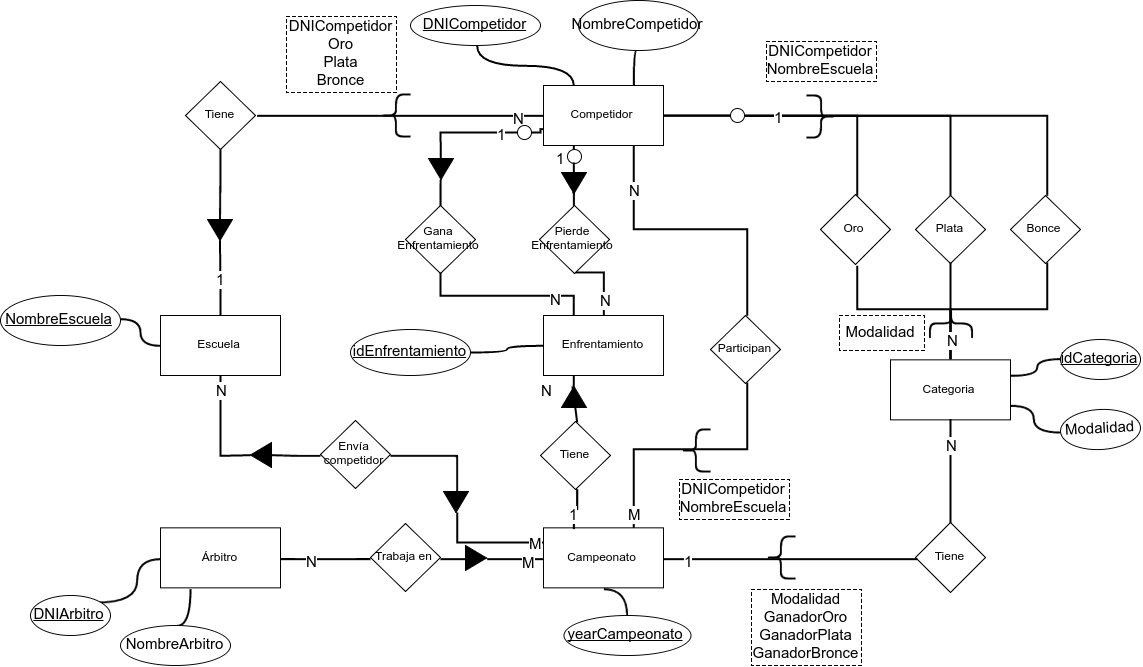
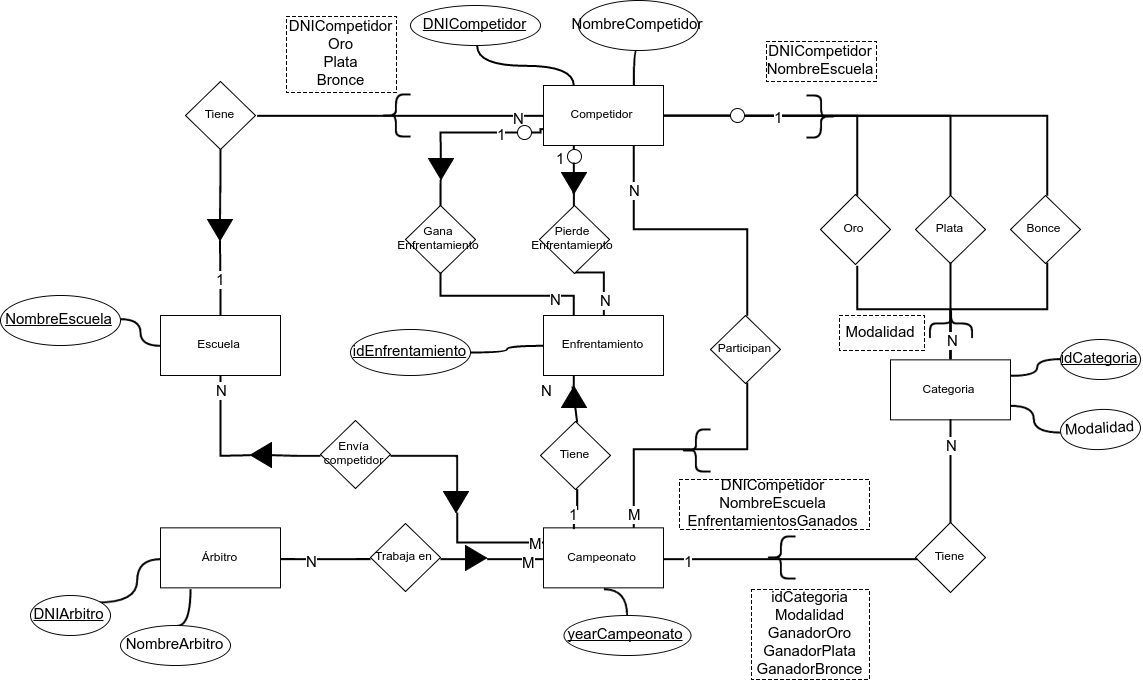
DID y JSON

diff --git a/latex/JSONSchema.tex b/latex/JSONSchema.tex
@@ -1,0 +1,201 @@
+En esta sección mostraremos el diseño lógico de la base de datos usando \textbf{JSONSchema}.
+
+\begin{lstlisting}
+  "Arbitro":{"type": "object",
+      "properties": {
+          "DNIArbitro": {
+              "type": "integer"
+          },
+          "NombreArbitro": {
+              "type": "string"
+          },
+          "ListaCampeonatos": {"type": "array",
+              "items": {
+                  "type": "integer"
+              }
+          }
+      }
+  }
+\end{lstlisting}
+
+\begin{lstlisting}
+  "Campeonato":{"type": "object",
+      "properties": {
+          "yearCampeonato": {
+              "type": "integer"
+          },
+          "ListaArbitros":{"type": "array",
+              "items": {
+                  "type": "integer"
+              }
+          },
+          "ListaCategorias": { "type": "array",
+              "items": {"type": "object",
+                  "properties": {
+                      "GanadorBronce": {
+                          "type": "integer"
+                      },
+                      "GanadorOro": {
+                          "type": "integer"
+                      },
+                      "GanadorPlata": {
+                          "type": "integer"
+                      },
+                      "Modalidad": {
+                          "type": "string"
+                      },
+                      "idCategoria": {
+                          "type": "integer"
+                      }
+                  }
+
+              }
+          },
+          "ListaCompetidores": {"type": "array",
+              "items": { "type": "object",
+                  "properties": {
+                      "DNICompetidor": {
+                          "type": "integer"
+                      },
+                      "NombreEscuela": {
+                          "type": "string"
+                      },
+                      "EnfrentamientosGanados": {
+                          "items": {"type": "array",
+                              "type": "integer"
+                          }
+                      }
+                  }
+              }
+          },
+          "ListaEnfrentamientos": {"type": "array",
+              "items": {
+                  "type": "integer"
+              }
+          },
+          "ListaEscuelas": {"type": "array",
+              "items": {
+                  "type": "string"
+              }
+          }
+      }
+
+  }
+\end{lstlisting}
+
+\begin{lstlisting}
+  "Categoria":{"type": "object",
+      "properties": {
+          "GanadorBronce": {"type": "object",
+              "properties": {
+                  "DNICompetidor": {
+                      "type": "integer"
+                  },
+                  "NombreEscuela": {
+                      "type": "string"
+                  }
+              }
+          },
+          "GanadorOro": {"type": "object",
+              "properties": {
+                  "DNICompetidor": {
+                      "type": "integer"
+                  },
+                  "NombreEscuela": {
+                      "type": "string"
+                  }
+              }
+          },
+          "GanadorPlata": {"type": "object",
+              "properties": {
+                  "DNICompetidor": {
+                      "type": "integer"
+                  },
+                  "NombreEscuela": {
+                      "type": "string"
+                  }
+              }
+          },
+          "Modalidad": {
+              "type": "string"
+          },
+          "idCategoria": {
+              "type": "integer"
+          }
+      }
+  }
+\end{lstlisting}
+
+\begin{lstlisting}
+  "Competidor":{"type": "object",
+      "properties": {
+          "Bronce": {"type": "array",
+              "items": {
+                  "type": "integer"
+              }
+          },
+          "DNICompetidor": {
+              "type": "integer"
+          },
+          "EnfrentamientosGanados": {
+              "items": {"type": "array",
+                  "type": "integer"
+              }
+          },
+          "EnfrentamientosPerdidos": {
+              "items": {"type": "array",
+                  "type": "integer"
+              }
+          },
+          "NombreCompetidor": {
+              "type": "string"
+          },
+          "NombreEscuela": {
+              "type": "string"
+          },
+          "Oro": {"type": "array",
+              "items": {
+                  "type": "integer"
+              }
+          },
+          "Plata": {"type": "array",
+              "items": {
+                  "type": "integer"
+              }
+          }
+      }
+  }
+\end{lstlisting}
+
+\begin{lstlisting}
+  "Enfrentamiento":{"type": "object",
+      "properties": {
+          "idEnfrentamiento": {
+              "type": "integer"
+          },
+          "yearCampeonato": {
+              "type": "integer"
+          }
+      }
+  }
+\end{lstlisting}
+
+\begin{lstlisting}
+  "Escuela":{"type": "object",
+      "properties": {
+          "ListaCampeonatos": {"type": "array",
+              "items": {
+                  "type": "integer"
+              }
+          },
+          "ListaCompetidores": {"type": "array",
+              "items": {
+                  "type": "integer"
+              }
+          },
+          "NombreEscuela": {
+              "type": "string"
+          }
+      }
+  }
+\end{lstlisting}

diff --git a/latex/DID.tex b/latex/DID.tex
@@ -7,26 +7,33 @@ anterior.
   \caption{Diagrama entidad relación}
 \end{figure}
 
-A continuación mostraremos la forma en la que se resolvieron las consultas pedidas y como las desiciones tomadas las
+A continuación mostraremos la forma en la que se resolvieron las consultas pedidas y como las decisiones tomadas las
 optimizan.
 
 \subsection{Consultas}
 \begin{enumerate}
 \item Se nos pide la cantidad de enfrentamientos ganados por competidor para un campeonato dado. Se nos da como parámetro
-el año del campeonato y el DNI del competidor.
+el año del campeonato. Para resolver la consulta, recorremos todos los competidores en ListaCompetidores del campeonato.
+Contamos la cantidad de enfrentamientos ganados usando EnfrentamientosGanados. Podemos realizar esta consulta con este
+grado de optimización en el cual no buscamos otros documentos y nos basta solamente usar el documento de Campeonato. Esto
+se debe a que Campeonato tiene embebido parcialmente a los documentos de Competidores que participan en él. A su vez, los
+Competidores tienen referenciados a los enfrentamientos que ganaron y perdieron. El embebido parcial es sobre el
+DNICompetidor, para buscar cada competidor, y sobre EnfrentamientosGanados para poder contar la cantidad de victorias.
 
 \item La cantidad de medallas por nombre de escuela en toda la historia. Se nos da el NombreEscuela, que es la clave primaria de Escuela.
 Buscamos por este nombre hasta posicionarnos en la escuela pedida. Recorro la ListaCompetidores. Para cada competidor, realizo la suma de las medallas de los
 tres tipos(oro, plata y bronce). Existen dos procesos en esta consulta. El primero es la búsqueda en el documento Escuela
 usando el NombreEscuela. Esta consulta es inevitable dado que necesitamos de la entrada de la escuela pedida para obtener
 los demás datos. La segunda parte consiste en realizar la suma de todas las medallas de todas las entradas de
-competidores. Esta segunda parte se beneficia del hecho de que poseeo ListaCompetidores gracias a que se tomo la desición
+competidores. Esta segunda parte se beneficia del hecho de que posee ListaCompetidores gracias a que se tomo la decisión
 embebido parcialmente a los competidores en el documento Escuela.
 
 \item Para cada escuela, el campeonato donde ganó más medalla. Para realizar la consulta recorro el conjunto de
-escuelas y para cada una, a su vez, recorro los campeonatos referenciados en ListaCampeonatos. Dentro de cada
-campeonato recorro la ListaCompetidores buscando los competidores cuyo NombreEscuela coincida con el que estoy usando y
-sumo la cantidad de medallas de cada tipo. Me quedo con el campeonato con mayor cantidad de medallas.
+escuelas y, para cada una, recorro los campeonatos referenciados en ListaCampeonatos. Dentro de cada
+campeonato recorro la ListaCategorias buscando a los ganadores de los distintos tipos de medallas cuyo NombreEscuela
+coincida con el que estoy usando y sumo la cantidad de medallas de cada tipo. Me quedo con el campeonato con mayor
+cantidad de medallas. Esta consulta fue optimizada gracias a que los documentos Escuela tienen referencia a los documentos
+Campeonato(por su año). Se accede a cada documento campeonato y se utiliza que estos tienen embebidos a los Competidores.
 
 \item Los árbitros que participaron en al menos 4 campeonatos. La consulta se realiza recorriendo los documentos
 de Árbitro contando los Campeonatos usando ListaCampeonatos. Finalmente nos quedamos con los árbitros donde la ListaCampeonatos
@@ -36,11 +43,14 @@ al documento Campeonato.
 
 \item Las escuelas que han presentado el mayor número de competidores en cada campeonato. Recorro el conjunto de documentos
 Campeonato y para cada uno recorro su ListaEscuela y para cada NombreEscuela veo cuales de la ListaCompetidores son de esa
-Escuela.
+Escuela. La consulta es optimizada debido a que los Campeonatos tienen referencias de los documentos Escuela y embebido parcialmente
+a Competidor por el atributo NombreEscuela. Con lo cual, no se necesita acceder a otro documento que no sean todas las
+entradas de Campeonatos. Esto último es necesario ya que necesitamos información de todos.
 
 \item Obtener los competidores que más medallas obtuvieron por modalidad. Por cada entrada de el documento Competidor,
 cuento las medallas de cada tipo que coinciden con la modalidad pedida. Después me quedo con los competidores que más entradas
-totales tienen. Esta consulta se beneficia de que el Competidor tiene embebido parcialmente el documento Categoria por el
-atributo Modalidad. Por lo tanto, no es necesario acceder a ningún otro documento que no sea Competidor.
+totales tienen. Esta consulta se beneficia de que el Competidor tiene embebido parcialmente el documento Categoría por el
+atributo Modalidad y por los ganadores de las tres medallas. Por lo tanto, no es necesario acceder a ningún otro documento
+que no sea Competidor.
 
 \end{enumerate}

diff --git a/latex/conclusion.tex b/latex/conclusion.tex
@@ -1,0 +1,19 @@
+El desarrollo de una base de datos no relacional para guardar el histórico de los Campeonatos Mundiales de
+Taekwon-do ITF, consiguió que mostrarnos como funciona en la práctica el diseño e implementación de una base basada en
+documentos.\\
+
+El diagrama de entidad relación especifico para el problema resulto ser mucho más fácil de hacer y más corto.
+Esto se debe que este diagrama sirve para resolver un problema con menor número de detalles que el visto en el TP1.
+Por otro lado, el diagrama de interrelación de documentos resulto en un desafío mucho más interesante. Obligándonos
+muchas veces a replantear las decisiones tomadas e, incluso, a modificar el DER. Aunque, en esto último, siempre se hizo
+manteniendo la coherencia respecto a las entidades y sus relaciones. Algunas de las dificultades surgidas fueron, por ejemplo,
+la representación de categoría o modalidad en un campeonato. Dado que en el trabajo práctico anterior solo se modelaba un
+campeonato, las categorías eran exclusivas de este. Sin embargo, al tener muchos campeonatos las categorías se podrían
+relacionar con ellos de varias formas. Una de las primeras ideas que se barajaron fue que cada categoría perteneciera a
+muchos campeonatos. Al final, para facilitar las consultas se opto por representar cada categoria según el año de cada
+campeonato. Con lo cual, hay varias categorías por año sin importar la cantidad que existan en los demás. Las mayoría
+de los problemas de diseño fueron solucionados discutiendo como obtener la mejor representación de la base de datos
+para optimizar las consultas que se pedían. Se podría concluir que, a pesar de las dificultades de diseño, el modelo de
+bases de datos no relacionales basadas en documentos ofrece herramientas que simplifican la implementación, una vez el
+diseño está terminado. A su vez, el diseño no presenta grandes dificultades fuera de las decisiones que se deben tomar.
+Esto debido a que la notación sobre el DID es clara y fácil de interpretar.

diff --git a/latex/DER.tex b/latex/DER.tex
@@ -28,3 +28,6 @@ los campeonatos. A la vez, pueden haber participado en varios campeonatos. Dado 
 de varias categorías por campeonato, también puede haber resultado victorioso o derrotado en varios enfrentamientos por
 cada campeonato al que participo. También puede haber ganado medallas, de cualquiera de los tres tipo, en más de una categoría.
 O podría no haber ganado ninguna.\\
+
+Los enfrentamientos se realizan para un campeonato expecífico y en él participan dos competidores distintos. Uno de estos
+es el ganador del enfrentamiento y otro el perdedor.
